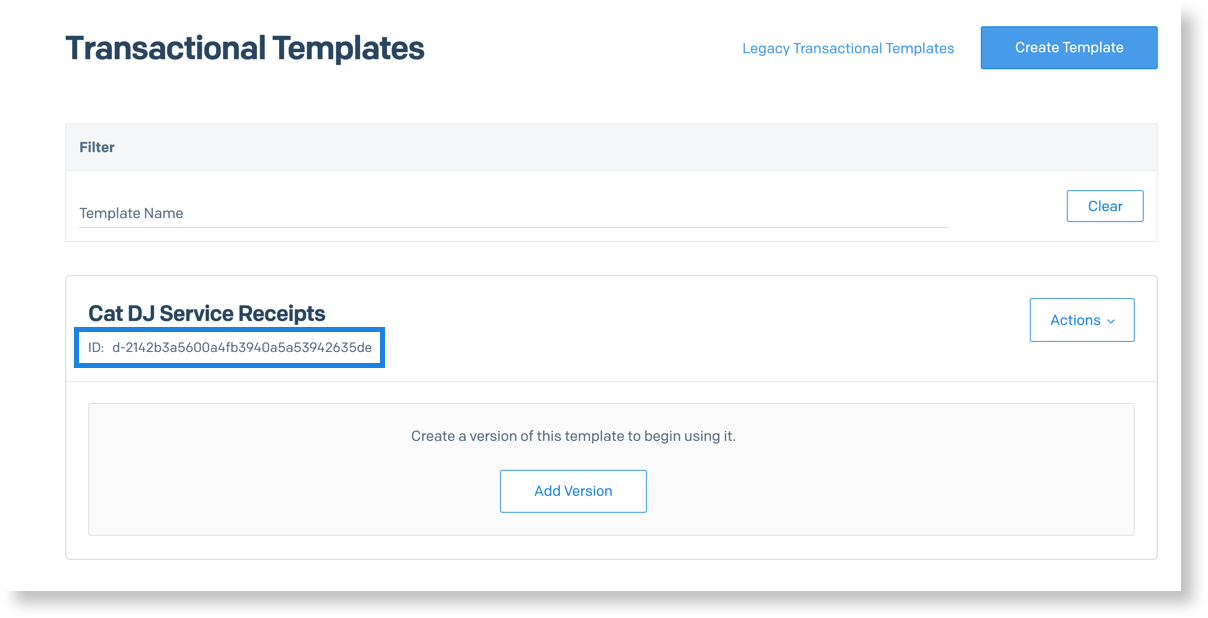
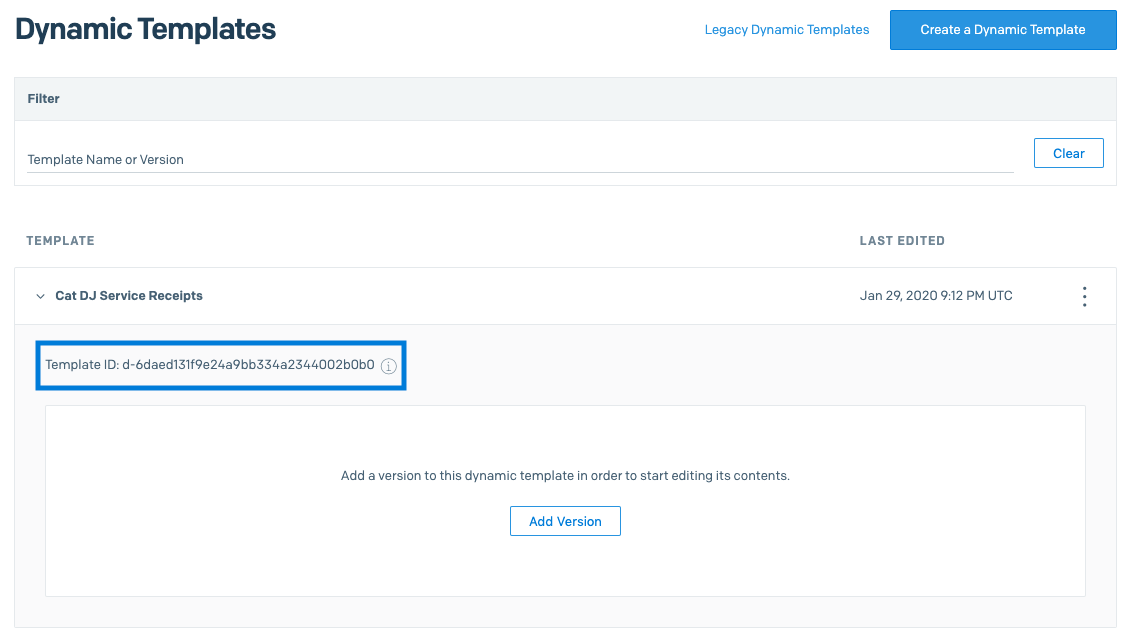
Update dynamic templates docs to reflect changes to the SG app navigation

diff --git a/content/docs/release-notes/2020-01-29.md b/content/docs/release-notes/2020-01-29.md
@@ -1,0 +1,12 @@
+---
+title: "release notes 2020-01-29"
+date: 2020-01-19
+releaseType:
+  - ui
+---
+
+### Dynamic Templates UI within "Email API" Navigation
+
+Dynamic Templates, formerly Transactional Templates, are used to design, build, test, store, and manage email content sent over the SendGrid Email API. Dynamic Templates can now be found under the Email API section within the SendGrid application navigation. The Templates navigation item has been removed. There are no changes to Dynamic Template functionality.
+
+For more information about setting up Dynamic Templates, visit [How to send an email with Dynamic Transactional Templates]({{root_url}}/ui/sending-email/how-to-send-an-email-with-dynamic-transactional-templates/) in the docs.

diff --git a/content/docs/ui/sending-email/how-to-send-an-email-with-dynamic-transactional-templates.md b/content/docs/ui/sending-email/how-to-send-an-email-with-dynamic-transactional-templates.md
@@ -21,7 +21,7 @@ Before you create and send an email using a dynamic transactional template you n
 
 ## Design a dynamic transactional template
 
-1. Open the [transactional templates](https://sendgrid.com/dynamic_templates) page and click **Create Template**.
+1. Open the [Dynamic Transactional Templates](https://sendgrid.com/dynamic_templates) page and click **Create Template**.
 2. Add a unique template name and then click **Save**.
 3. To begin editing your new template, click **Add Version**.
 4. Select an editor and click **Continue**.
